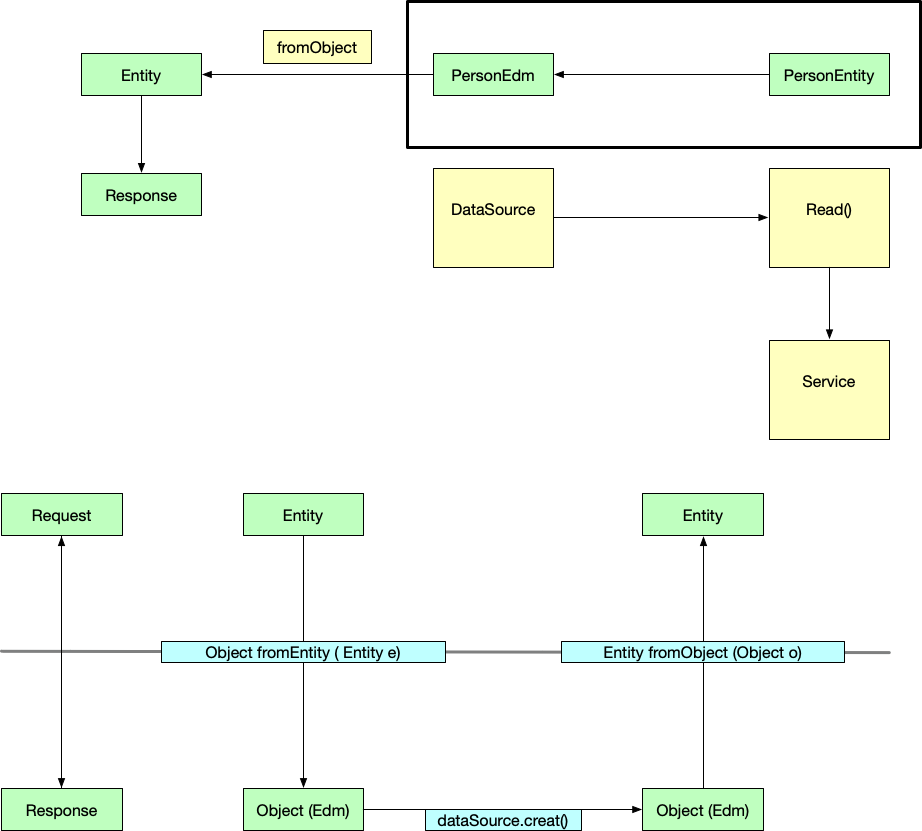
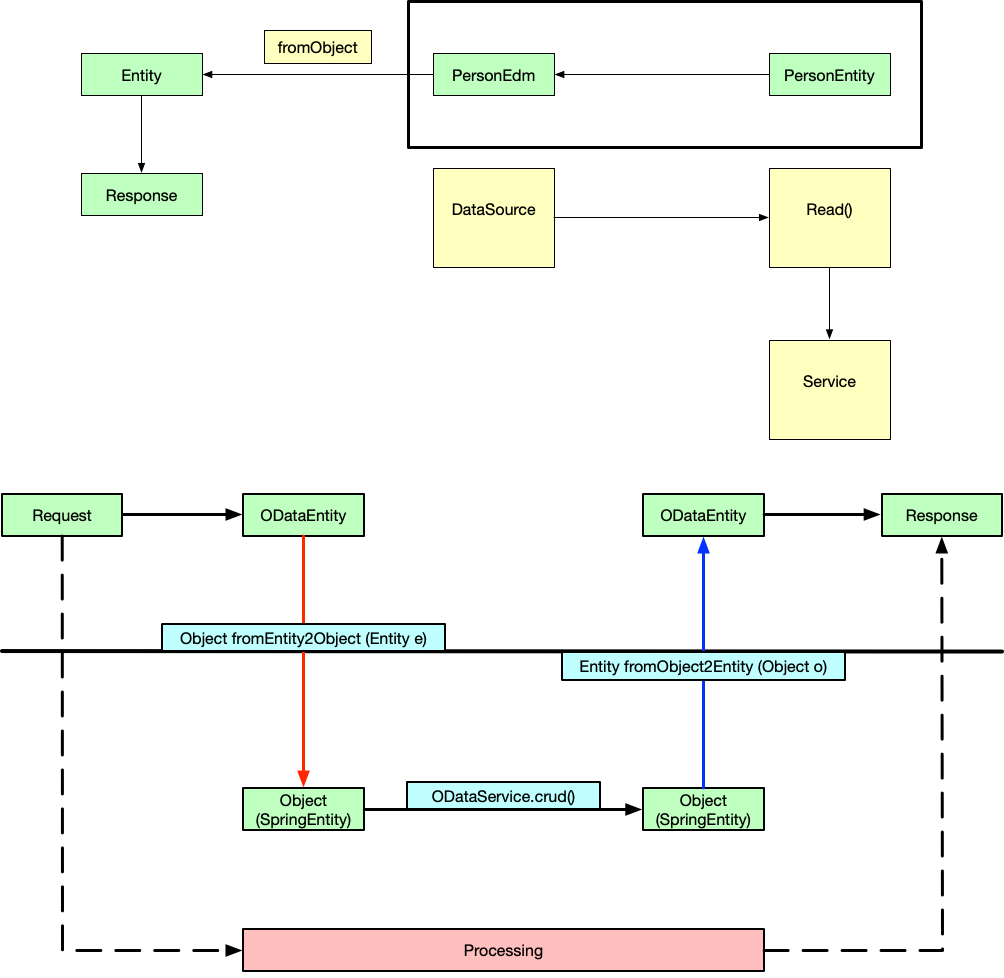
🧩: Finish the function fromNaviBindings2NaviLinks() in SaturnProcessor and update design doc.

diff --git a/saturn-odata/src/main/java/com/github/saturn/odata/processors/SaturnProcessor.java b/saturn-odata/src/main/java/com/github/saturn/odata/processors/SaturnProcessor.java
@@ -31,7 +31,9 @@ import com.github.saturn.odata.annotations.ODataComplexType;
 import com.github.saturn.odata.annotations.ODataProperty;
 import com.github.saturn.odata.annotations.ODataNavigationProperty;
 import com.github.saturn.odata.enums.PrimitiveType;
+import com.github.saturn.odata.enums.SelfDefinedType;
 import com.github.saturn.odata.exceptions.SaturnODataException;
+import com.github.saturn.odata.interfaces.SaturnODataService;
 import com.github.saturn.odata.metadata.SaturnEdmContext;
 import com.github.saturn.odata.utils.ClassUtils;
 
@@ -44,11 +46,15 @@ import org.apache.olingo.commons.api.data.Property;
 import org.apache.olingo.commons.api.data.ValueType;
 import org.apache.olingo.commons.api.data.Link;
 import org.apache.olingo.commons.api.data.EntityCollection;
+import org.apache.olingo.commons.api.edm.EdmEntitySet;
 import org.apache.olingo.commons.api.edm.FullQualifiedName;
 import org.apache.olingo.commons.api.http.HttpStatusCode;
 import org.apache.olingo.server.api.OData;
 import org.apache.olingo.server.api.ServiceMetadata;
+import org.apache.olingo.server.api.deserializer.DeserializerException;
 import org.apache.olingo.server.api.processor.Processor;
+import org.apache.olingo.server.api.uri.UriParameter;
+import org.apache.olingo.server.api.uri.UriResourceEntitySet;
 import org.apache.olingo.server.api.uri.UriResourceKind;
 import org.apache.olingo.server.api.uri.queryoption.ExpandOption;
 import org.slf4j.Logger;
@@ -95,8 +101,8 @@ public class SaturnProcessor implements Processor {
         return this;
     }
 
-    protected Entity fromObject(final Object object) throws SaturnODataException, IllegalAccessException {
-        return fromObject(object, null);
+    protected Entity fromObject2Entity(final Object object) throws SaturnODataException, IllegalAccessException {
+        return fromObject2Entity(object, null);
     }
 
     /**
@@ -106,8 +112,8 @@ public class SaturnProcessor implements Processor {
      * @param expandOption ..
      * @return ..
      */
-    protected Entity fromObject(final Object object, final ExpandOption expandOption) throws SaturnODataException, IllegalAccessException {
-        ExceptionUtils.assertNotNull(object);
+    protected Entity fromObject2Entity(final Object object, final ExpandOption expandOption) throws SaturnODataException, IllegalAccessException {
+        ExceptionUtils.assertNotNull(object, SelfDefinedType.ENTITY.getMessage());
 
         Entity entity = new Entity();
         Class<?> clazz = object.getClass();
@@ -258,7 +264,7 @@ public class SaturnProcessor implements Processor {
             Object complexObj = field.get(object);
 
             if (complexObj != null) {
-                Entity complexEntity = fromObject(complexObj, expandOption);
+                Entity complexEntity = fromObject2Entity(complexObj, expandOption);
                 ComplexValue complexValue = new ComplexValue();
                 complexValue.getValue().addAll(complexEntity.getProperties());
                 actualValue = complexValue;
@@ -306,11 +312,11 @@ public class SaturnProcessor implements Processor {
                             if (collectionType) {
                                 List<?> expandNestedObjects = (List<?>) expandNestedObject;
                                 for (Object obj : expandNestedObjects) {
-                                    Entity expandEntity = fromObject(obj, expandNestedOption);
+                                    Entity expandEntity = fromObject2Entity(obj, expandNestedOption);
                                     entities.add(expandEntity);
                                 }
                             } else {
-                                Entity expandEntity = fromObject(expandNestedObject, expandNestedOption);
+                                Entity expandEntity = fromObject2Entity(expandNestedObject, expandNestedOption);
                                 entities.add(expandEntity);
                             }
                         }
@@ -343,7 +349,7 @@ public class SaturnProcessor implements Processor {
         return null;
     }
 
-    protected Object fromEntity(final Entity entity, final Class<?> clazz) throws IllegalAccessException, InstantiationException {
+    protected Object fromEntity2Object(final Entity entity, final Class<?> clazz) throws IllegalAccessException, InstantiationException {
 
         if (entity == null || clazz == null) {
             return null;
@@ -367,7 +373,7 @@ public class SaturnProcessor implements Processor {
                         Entity complexEntity = new Entity();
                         ComplexValue complexValue = (ComplexValue) property.getValue();
                         complexEntity.getProperties().addAll(complexValue.getValue());
-                        Object complexObject = fromEntity(complexEntity, fieldClass);
+                        Object complexObject = fromEntity2Object(complexEntity, fieldClass);
                         field.setAccessible(true);
                         field.set(object, complexObject);
 
@@ -419,7 +425,7 @@ public class SaturnProcessor implements Processor {
                             List<Object> inlineObjects = new ArrayList<>();
 
                             for (Entity e : entities) {
-                                Object inlineObject = fromEntity(e, argType);
+                                Object inlineObject = fromEntity2Object(e, argType);
                                 if (inlineObject != null) {
                                     inlineObjects.add(inlineObject);
                                 }
@@ -433,13 +439,69 @@ public class SaturnProcessor implements Processor {
                         field.setAccessible(true);
                         ODataEntityType oDataEntityType = fieldClass.getAnnotation(ODataEntityType.class);
                         Class<?> entityClazz = saturnEdmContext.getEntityTypes().get(oDataEntityType.name());
-                        Object entityObject = fromEntity(link.getInlineEntity(), entityClazz);
+                        Object entityObject = fromEntity2Object(link.getInlineEntity(), entityClazz);
                         field.set(object, entityObject);
                     }
                 }
             }
         }
         return object;
+    }
+
+    protected void fromNaviBindings2NaviLinks(Entity reqEntity, Map<String, SaturnODataService> serviceMap, String uri) throws SaturnODataException {
+        List<Link> naviBindings = reqEntity.getNavigationBindings();
+
+        if (naviBindings != null && naviBindings.size() > 0) {
+
+            for (Link link : naviBindings) {
+                Link naviLink = new Link();
+                naviLink.setTitle(link.getTitle());
+                reqEntity.getNavigationLinks().add(naviLink);
+
+                if (link.getBindingLinks().isEmpty()) {
+                    String bindingLink = link.getBindingLink();
+                    Entity entity = getEntityFromBindingLink(bindingLink, serviceMap, uri);
+                    naviLink.setInlineEntity(entity);
+
+                } else {
+                    EntityCollection entityCollection = naviLink.getInlineEntitySet();
+
+                    if (entityCollection == null) {
+                        entityCollection = new EntityCollection();
+                        naviLink.setInlineEntitySet(entityCollection);
+                    }
+
+                    for (String bindingLink : link.getBindingLinks()) {
+                        Entity entity = getEntityFromBindingLink(bindingLink, serviceMap, uri);
+                        entityCollection.getEntities().add(entity);
+                    }
+                }
+            }
+        }
+    }
+
+    private Entity getEntityFromBindingLink(String bindingLink, Map<String, SaturnODataService> serviceMap, String uri) throws SaturnODataException {
+        try {
+            UriResourceEntitySet uriResourceEntitySet = odata.createUriHelper().parseEntityId(serviceMetadata.getEdm(), bindingLink, uri);
+            EdmEntitySet edmEntitySet = uriResourceEntitySet.getEntitySet();
+            List<UriParameter> parameters = uriResourceEntitySet.getKeyPredicates();
+            Map<String, UriParameter> parameterMap = parameters
+                    .stream()
+                    .collect(Collectors.toMap(UriParameter::getName, p -> p));
+
+            // services defined by self implement interface SaturnODataService.
+            SaturnODataService oDataService = serviceMap.get(edmEntitySet.getName());
+            ExceptionUtils.assertNotNull(oDataService, SelfDefinedType.SERVICE.getMessage(), edmEntitySet.getName());
+
+            // the object is springEntity defined by self.
+            Object object = oDataService.retrieveByKey(parameterMap);
+            ExceptionUtils.assertNotNull(object, SelfDefinedType.ENTITY.getMessage(), edmEntitySet.getName());
+
+            return fromObject2Entity(object, null);
+
+        } catch (DeserializerException | SaturnODataException | IllegalAccessException e) {
+            throw new SaturnODataException(HttpStatusCode.INTERNAL_SERVER_ERROR, e.getMessage());
+        }
     }
 
     public OData getOData() {

diff --git a/saturn-odata/src/main/java/com/github/saturn/odata/enums/SelfDefinedType.java b/saturn-odata/src/main/java/com/github/saturn/odata/enums/SelfDefinedType.java
@@ -22,36 +22,20 @@
  * SOFTWARE.
  */
 
-package com.github.saturn.odata.interfaces;
+package com.github.saturn.odata.enums;
 
-import com.github.saturn.odata.uri.QueryOptions;
+public enum SelfDefinedType {
 
-import org.apache.olingo.server.api.uri.UriParameter;
+    ENTITY("Self-Defined-Entity"),
+    SERVICE("Self-Defined-Service");
 
-import java.util.List;
-import java.util.Map;
+    private final String message;
 
-public interface SaturnODataService {
-
-    /**
-     *
-     * @param object       edm defined by selves.
-     * @param superObject
-     * @return             edm defined by selves.
-     */
-    Object create(Object object, Object superObject);
-
-    Object retrieveByKey(Map<String, UriParameter> parameterMap, QueryOptions queryOptions, Object superObject);
-
-    default Object retrieveByKey(Map<String, UriParameter> parameterMap) {
-        return retrieveByKey(parameterMap, null, null);
+    SelfDefinedType(final String message) {
+        this.message = message;
     }
 
-    Iterable<?> retrieveAll(QueryOptions queryOptions, Object superObject);
-
-    Object update(Map<String, UriParameter> parameterMap, List<String> properties, Object object, Object superObject);
-
-    Object delete(Map<String, UriParameter> parameterMap, Object superObject);
-
-    Long count(QueryOptions queryOptions, Object superObject);
+    public String getMessage() {
+        return message;
+    }
 }

diff --git a/saturn-odata/src/main/java/com/github/saturn/odata/utils/ExceptionUtils.java b/saturn-odata/src/main/java/com/github/saturn/odata/utils/ExceptionUtils.java
@@ -50,10 +50,15 @@ public final class ExceptionUtils {
         }
     }
 
-    public static void assertNotNull(final Object object) throws SaturnODataException {
+    public static void assertNotNull(final Object object, final String type, final String objectName) throws SaturnODataException {
         if (object == null) {
-            throw new SaturnODataException("Object should not be null", HttpStatusCode.INTERNAL_SERVER_ERROR);
+            throw new SaturnODataException(
+                    HttpStatusCode.INTERNAL_SERVER_ERROR, "Object(%s) of type(%s) could not be found, should not be null", objectName, type);
         }
+    }
+
+    public static void assertNotNull(final Object object, final String type) throws SaturnODataException {
+        assertNotNull(object, type, "");
     }
 
     public static void assertLengthGreaterThanZero(final Object[] objects, final String detailMessage) throws SaturnODataException {

diff --git a/saturn-odata/src/main/java/com/github/saturn/odata/exceptions/SaturnODataException.java b/saturn-odata/src/main/java/com/github/saturn/odata/exceptions/SaturnODataException.java
@@ -52,7 +52,7 @@ public class SaturnODataException extends ODataException {
         super(cause);
     }
 
-    public SaturnODataException(final String exceptionMessage, final HttpStatusCode httpStatus) {
+    public SaturnODataException(final HttpStatusCode httpStatus, final String exceptionMessage) {
         super(exceptionMessage);
         this.statusCode = httpStatus.getStatusCode();
     }
